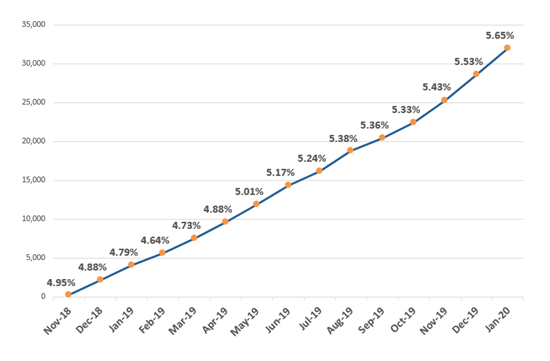
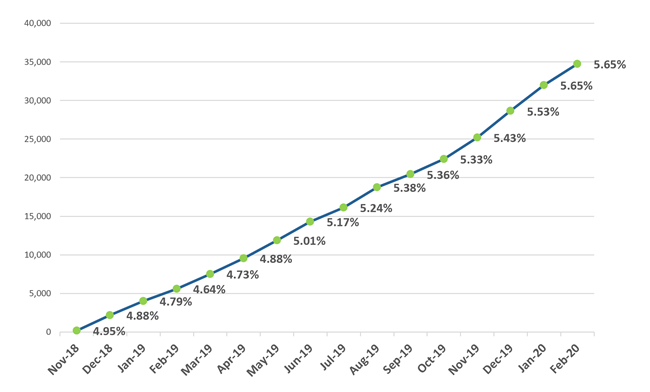
Commit of Content/Live_use_cases/NHS_111_Discovery_frailty_flagging.htm,Content/Popups/Frailty_graph.htm,Content/Resources/frailty codes.xlsx,Content/Resources/Images/Frailty graph.png,Project/Targets/HTML5 - Top Navigation.fltar

diff --git a/Content/Live_use_cases/NHS_111_Discovery_frailty_flagging.htm b/Content/Live_use_cases/NHS_111_Discovery_frailty_flagging.htm
@@ -7,11 +7,11 @@
         <p>Since the project went live in November 2018, the Discovery Data Service has: 
 		</p>
         <ul>
-            <li class="bullets">matched 571,801 patients</li>
-            <li class="bullets">flagged 32,324 potentially frail patients</li>
+            <li class="bullets">matched 614,222 patients</li>
+            <li class="bullets">flagged 34,721 potentially frail patients</li>
             <li class="bullets"><a href="../Popups/Frailty_graph.htm" class="MCTopicPopup MCTopicPopupHotSpot MCXref xref" MadCap:width="750px" MadCap:height="750px">Monthly totals</a>
             </li>
-            <li class="bullets">Latest update: 4 February 2020</li>
+            <li class="bullets">Latest update: 2 March 2020</li>
         </ul>
         <h2>Project summary</h2>
         <p>The NHS 111 Discovery frailty flagging project utilises  Discovery data to flag key information to NHS 111 call handlers to improve the patient pathway and experience, and reduce the unnecessary use of emergency services and admission to A&amp;E.</p>

diff --git a/Content/Popups/Frailty_graph.htm b/Content/Popups/Frailty_graph.htm
@@ -6,6 +6,6 @@
         <h1>Frailty API</h1>
         <p>The following graph shows the number of patients that have been flagged as potentially frail and have therefore been fast tracked to speak directly to a clinician who can provide personalised care.</p>
         <p>The graph shows the cumulative totals and the percentage of potentially frail patients compared to the total number of matched patients.</p>
-        <img src="../Resources/Images/Frailty graph.png" />
+        <img src="../Resources/Images/Frailty graph.png" style="mc-float: center;" />
     </body>
 </html>
